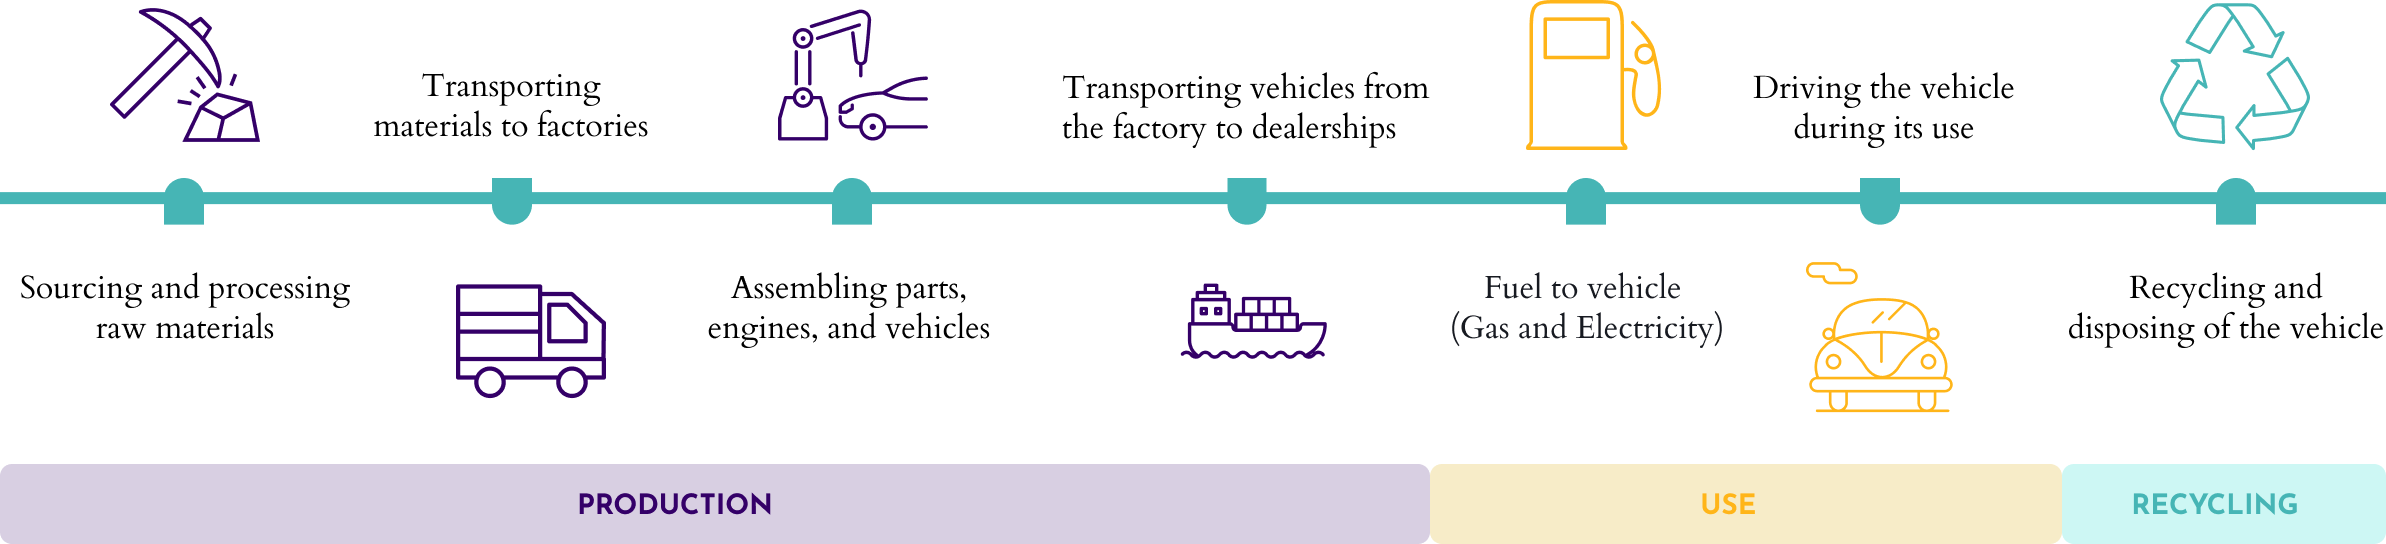
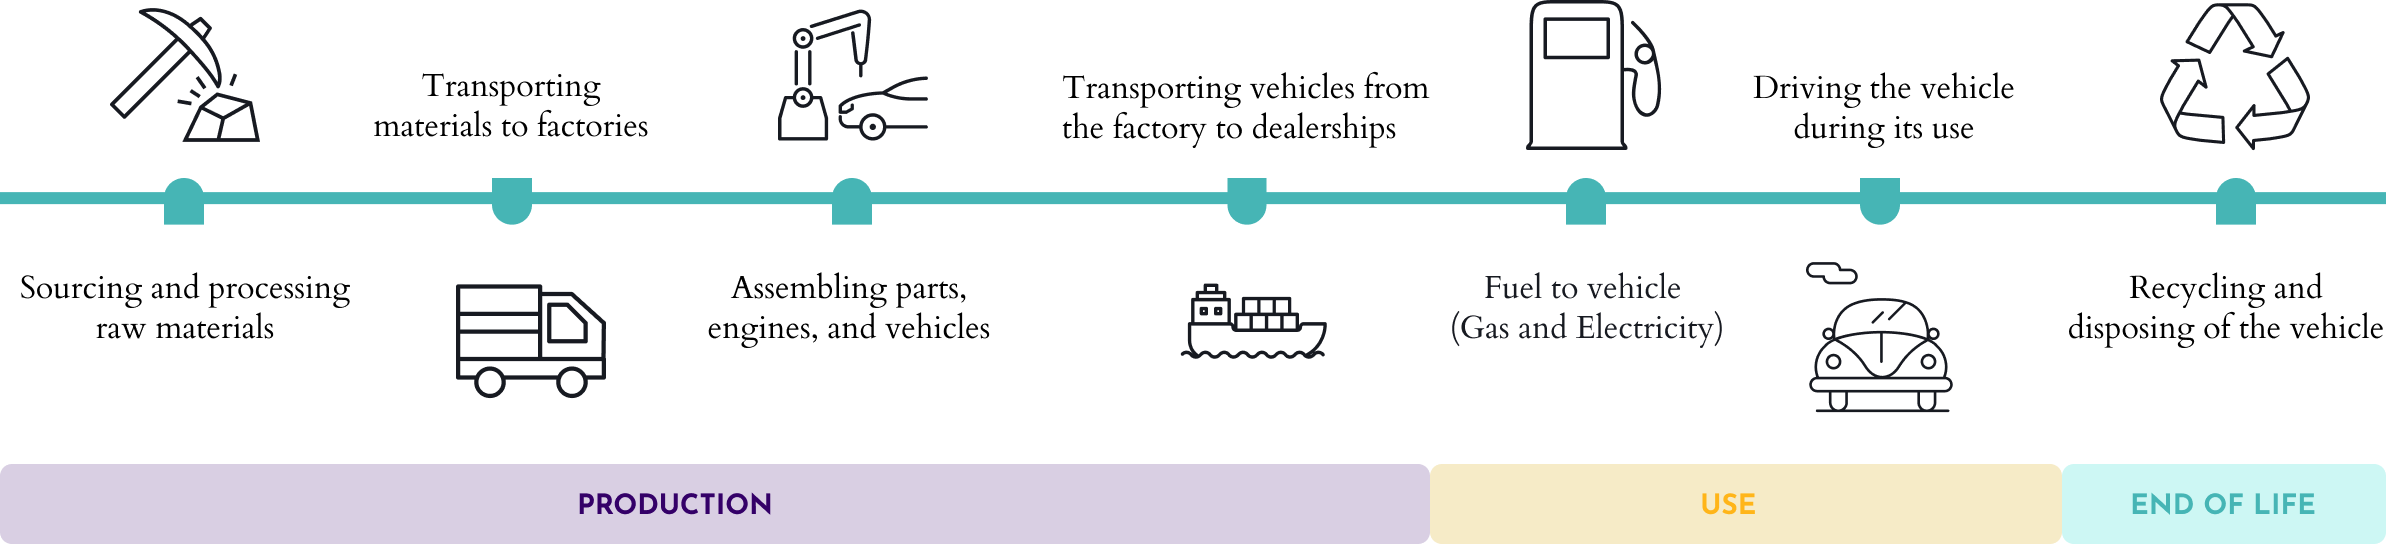
more copy and infographic changes

diff --git a/templates/index.html b/templates/index.html
@@ -277,7 +277,7 @@
           <div class="col-12 pt-3 pb-3 px-5">
             <h5 class="pb-3">Emissions occur throughout a vehicle's lifetime</h5>
             <!-- <img src="../static/images/LCA/LCALine.png" style="width:100%"> -->
-            <img src="../static/images/LCA/LCALine2.png" style="width:100%">
+            <img src="../static/images/LCA/LCALine.png" style="width:100%">
           </div> <!-- end col -->
         </div> <!-- end row -->
 
@@ -366,11 +366,12 @@
                           </div>  -->
                           <div class="d-flex flex-row py-3">
                             <div style="width: 40%">
-                              <!-- <img src="../static/images/explore/bar_battery.png" class="pb-5" style="max-width: 100%;"> -->
                               <div id="observablehq-vehicleParts_barchart-1be27666"></div>
-                              <div class="bg-secondary mt-4 p-2 rounded-2">
+                              <p class="pt-4">Proportion to Lifetime Emissions</p>
+                              <img src="../static/images/explore/bar_battery.png" style="max-width: 100%;">
+                              <!-- <div class="bg-secondary mt-2 p-2 rounded-2">
                                 BEVs are generally powered by lithium-ion batteries which require transporting and processing more raw materials from around the world, resulting in higher energy usage and emissions during production.
-                              </div>
+                              </div> -->
                             </div> <!-- end end half -->
                             <div style="width: 60%">
                               <h4>Battery</h4>
@@ -406,8 +407,9 @@
 
                           <div style="" class="d-flex flex-row py-3">
                             <div class="" style="width: 40%">
-                              <!-- <img src="../static/images/explore/bar_parts.png" class="pb-5" style="max-width: 100%;"> -->
                               <div id="observablehq-battery_barchart-b652a6e2"></div>
+                              <p class="pt-4">Proportion to Lifetime Emissions</p>
+                              <img src="../static/images/explore/bar_parts.png" style="max-width: 100%;">
                             </div> <!-- end end half -->
                             <div class=""style="width: 60%">
                               <h4>Vehicle Parts</h4>
@@ -431,8 +433,9 @@
 
                         <div style="" class="d-flex flex-row py-3">
                           <div class="" style="width: 40%">
-                            <!-- <img src="../static/images/explore/bar_use.png" class="pb-5" style="max-width: 100%;"> -->
                             <div id="observablehq-use_barchart-e6297ec9"></div>
+                            <p class="pt-4">Proportion to Lifetime Emissions</p>
+                            <img src="../static/images/explore/bar_use.png" style="max-width: 100%;">
                           </div> <!-- end end half -->
                           <div class="" style="width: 60%">
                             <h4>Use</h4>
@@ -463,8 +466,9 @@
 
                         <div style="" class="d-flex flex-row py-3">
                           <div class="" style="width: 40%">
-                            <!-- <img src="../static/images/explore/bar_disposal.png" class="pb-5" style="max-width: 100%;"> -->
                             <div id="observablehq-disposal_barchart-99771b29"></div>
+                            <p class="pt-4">Proportion to Lifetime Emissions</p>
+                            <img src="../static/images/explore/bar_disposal.png" style="max-width: 100%;">
                           </div> <!-- end end half -->
                           <div class="" style="width: 60%">
                             <h4>Disposal</h4>
@@ -542,8 +546,8 @@
               <img src="../static/images/gridmix/wind.png" class="sourcesPhoto mx-auto d-block"> 
               <div class="card-body">
                 <h5 class="text-center">Renewables</h5>
-                <p class="card-text">Sources include: wind, hydro, solar, biomass, & geothermal</p>
-                <a class="btn btn-success btn-md rounded-pill px-2 text-center" href="">Mimimal Emissions</a>
+                <p class="card-text pb-2">Sources include: wind, hydro, solar, biomass, & geothermal</p>
+                <span class="bg-success rounded-pill p-2 text-center text-white">Mimimal Emissions</span>
               </div>
             </div> <!-- end card -->
           </div> <!-- end col -->
@@ -552,8 +556,8 @@
               <img src="../static/images/gridmix/nonrenewable.png" class="sourcesPhoto mx-auto d-block"> 
               <div class="card-body">
                 <h5 class="text-center">Non-renewables</h5>
-                <p class="card-text">Sources include: fossil fuels, natural gas, coal, & petroleum</p>
-                <a class="btn btn-danger btn-md rounded-pill px-2 text-center" href="">Significant Emissions</a>
+                <p class="card-text pb-2">Sources include: fossil fuels, natural gas, coal, & petroleum</p>
+                <span class="bg-danger rounded-pill p-2 text-center text-white">Significant Emissions</span>
               </div>
             </div> <!-- end card -->
           </div> <!-- end col -->
@@ -562,8 +566,8 @@
               <img src="../static/images/gridmix/nuclear.png" class="sourcesPhoto mx-auto d-block"> 
               <div class="card-body">
                 <h5 class="text-center">Nuclear</h5>
-                <p class="card-text">The U.S. currently has 95 operating nuclear power plants.</p>
-                <a class="btn btn-warning btn-md rounded-pill px-2 text-center" href="">Less Emissions</a>
+                <p class="card-text pb-2">The U.S. currently has 95 operating nuclear power plants.</p>
+                <span class="bg-warning rounded-pill p-2 text-center text-white">Less Emissions</span>
               </div>
             </div> <!-- end card -->
           </div> <!-- end col -->

diff --git a/templates/equity.html b/templates/equity.html
@@ -152,19 +152,18 @@
         </div> <!-- end row -->
 
         <div class="row">
-          <div class="col-10 px-5">
+          <div class="col-9 px-5">
             <h5>At-Home ZEV Charging as a Grid Stressor</h5>
             <p><br>
               A large portion of electric grid infrastructure in California is ill-equipped to handle at-home electric vehicle charging. 
-              <br><br>
-              More than half of households in California lack access to new loads of electricity for EV Charging:
             </p>
+            <h5>More than half of households in California lack access to new loads of electricity for EV Charging:</h5>
           </div> <!-- end col -->
         </div> <!-- end row -->
 
         <div class="row">
-          <div class="col-12 px-5">
-            <img src="../static/images/abilitytochargeathome.png" style="max-width: 50%; margin-left: 25%;" class="pb-5">
+          <div class="col-12 px-5 py-3 text-center">          
+            <img src="../static/images/abilitytochargeathome.png" style="max-width: 40%;" class="">
           </div> <!-- end col -->
         </div> <!-- end row -->
 
@@ -174,7 +173,7 @@
               In order to meet the demands of additional energy-intensive applications, such as electric vehicle charging, the electrical grid would need to make upgrades or households would need to turn to increased solar photovoltaic adoption in order to make up for the additional load. 
               <br><br>
               Even then, the grid also may not have adequate hosting capacity for many households to install or adopt solar PV (Brockway, Conde, and Callaway, 2021).
-              <br>
+              <br><br>
               Grid constraints on solar PV adoption include thermal constraints, power quality constraints, protection grid constraints, as well as physical building suitability for PV installation. 
             </p>
           </div> <!-- end col -->
